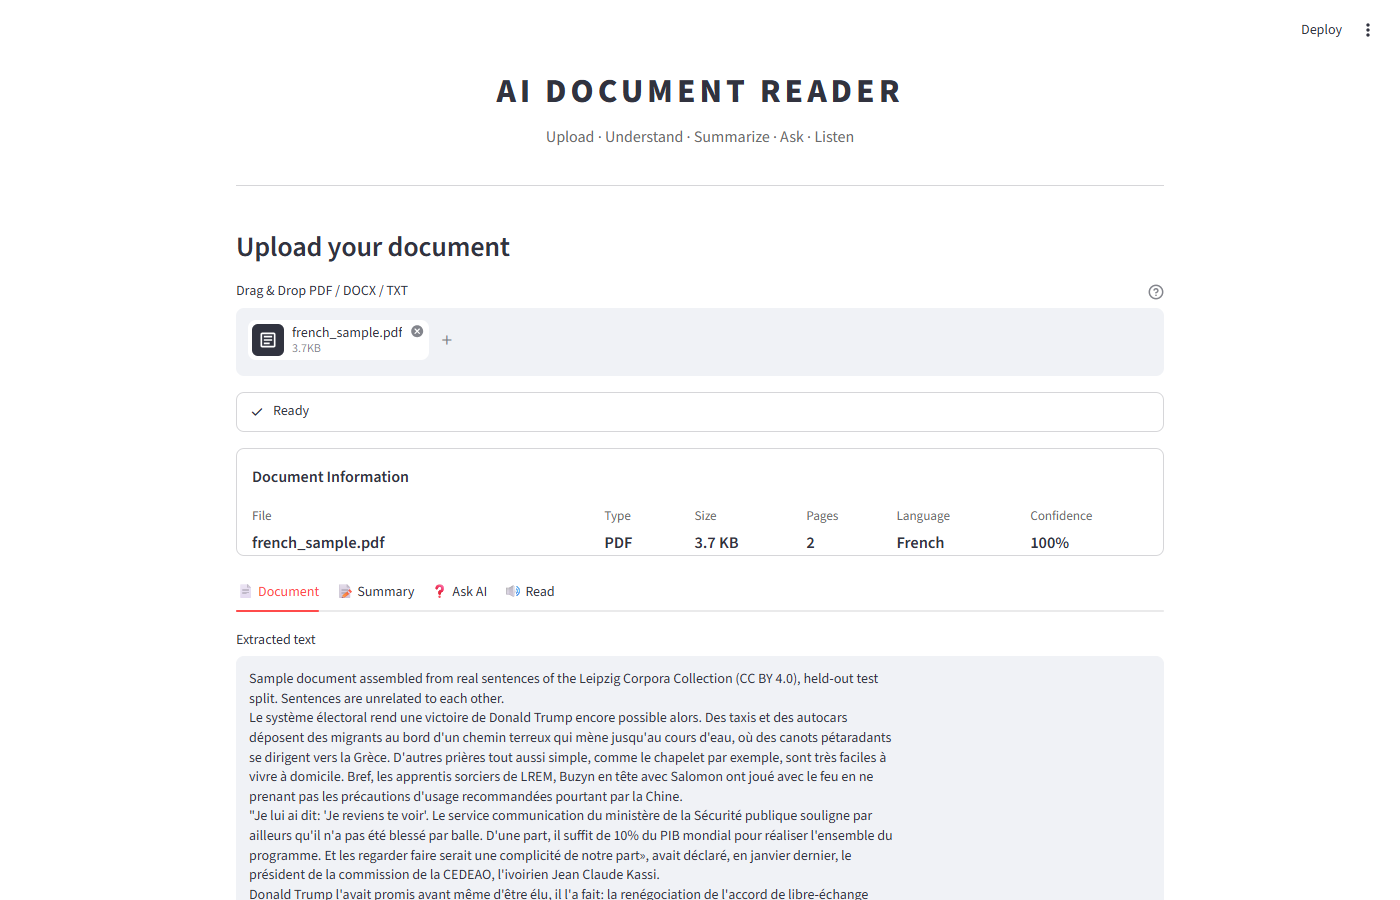
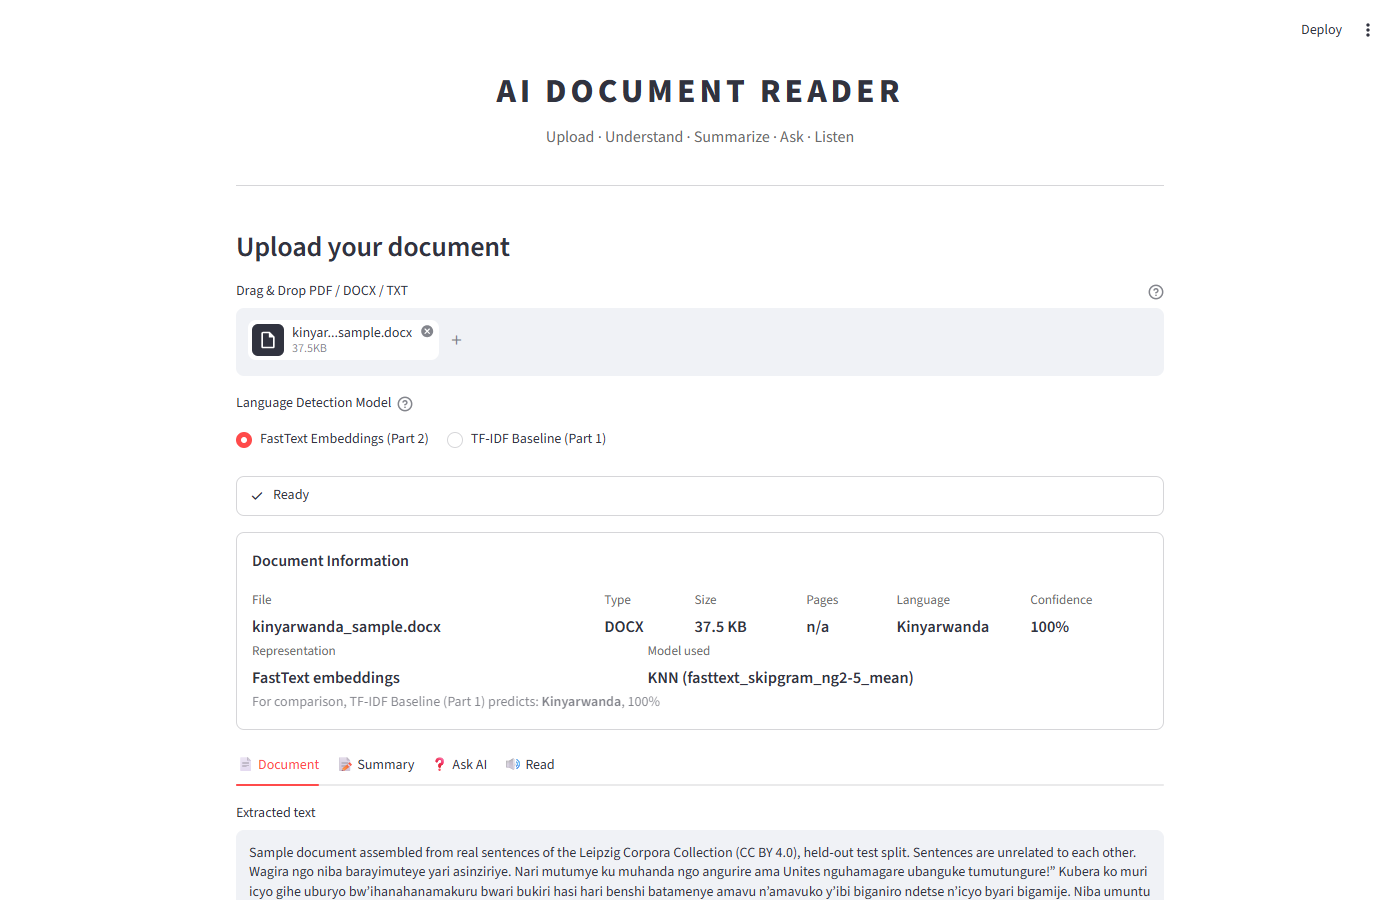
Update Streamlit model selection
Language Detection Model selector (FastText Embeddings - Part 2 / TF-IDF
Baseline - Part 1). The Document Information card shows the representation,
the model used and the other model's prediction for the same document.

diff --git a/ai-document-reader/app.py b/ai-document-reader/app.py
@@ -1,7 +1,10 @@
-"""AI Document Reader - Part 1 (TF-IDF baseline). Run: python -m streamlit run app.py
+"""AI Document Reader. Run: python -m streamlit run app.py
 
-Model evaluation is done in code (training/train_language_detection_tfidf.py -> results/),
-not in this interface.
+Language detection can use either model:
+  * Part 1 - TF-IDF baseline        (models/language_detection/tfidf/)
+  * Part 2 - FastText embeddings    (models/language_detection/fasttext/)
+
+Model evaluation is done in code (training/*.py -> results/), not in this interface.
 """
 
 from __future__ import annotations
@@ -10,6 +13,7 @@ import html
 
 import streamlit as st
 
+from src.config import FASTTEXT_MODEL_DIR, TFIDF_MODEL_DIR
 from src.extraction import SUPPORTED_TYPES, UnsupportedFileTypeError, extract_text
 from src.language_detection import LanguageDetector, ModelNotTrainedError
 from src.preprocessing import preprocess
@@ -23,6 +27,12 @@ st.set_page_config(page_title="AI Document Reader", page_icon="📄", layout="ce
 
 LANGUAGES = ["english", "french", "kinyarwanda"]
 SPEEDS = {"0.75x": 0.75, "1x": 1.0, "1.25x": 1.25, "1.5x": 1.5}
+DETECTION_MODELS = {
+    "FastText Embeddings (Part 2)": ("FastText embeddings", FASTTEXT_MODEL_DIR,
+                                     "python training/train_language_detection_embeddings.py"),
+    "TF-IDF Baseline (Part 1)": ("TF-IDF", TFIDF_MODEL_DIR,
+                                 "python training/train_language_detection_tfidf.py"),
+}
 READ_EXCERPT_CHARS = 3000
 
 st.markdown(
@@ -42,9 +52,16 @@ st.markdown(
 
 
 # ------------------------------------------------------------- cached ----
-@st.cache_resource
-def load_detector() -> LanguageDetector:
-    return LanguageDetector.load()
+@st.cache_resource(show_spinner="Loading language detection model...")
+def load_detector(model_dir: str) -> LanguageDetector:
+    return LanguageDetector.load(model_dir)
+
+
+def try_load_detector(choice: str) -> LanguageDetector | None:
+    try:
+        return load_detector(str(DETECTION_MODELS[choice][1]))
+    except ModelNotTrainedError:
+        return None
 
 
 @st.cache_data(show_spinner=False)
@@ -85,13 +102,16 @@ uploaded = st.file_uploader(
     help="PDF is read with PyMuPDF, DOCX with python-docx, TXT as UTF-8 text.",
 )
 
-try:
-    detector = load_detector()
-except ModelNotTrainedError as exc:
-    st.error(f"**Language detection model not found.**\n\n```\n{exc}\n```")
-    st.info("Build the dataset and train the model first:\n\n"
-            "```bash\npython training/prepare_dataset.py\npython training/train_language_detection_tfidf.py\n```")
+model_choice = st.radio("Language Detection Model", list(DETECTION_MODELS), horizontal=True,
+                        help="Part 1 uses a sparse TF-IDF representation; Part 2 uses dense FastText "
+                             "word embeddings. Both use the same data, preprocessing and evaluation.")
+representation_name, _, train_command = DETECTION_MODELS[model_choice]
+detector = try_load_detector(model_choice)
+if detector is None:
+    st.error(f"**The {model_choice} model has not been trained yet.**")
+    st.info(f"Train it first:\n\n```bash\npython training/prepare_dataset.py\n{train_command}\n```")
     st.stop()
+other_choice = next(c for c in DETECTION_MODELS if c != model_choice)
 
 if uploaded is None:
     st.stop()
@@ -142,6 +162,15 @@ with st.container(border=True):
     info_cell(cols[4], "Language", language.capitalize())
     info_cell(cols[5], "Confidence",
               f"{prediction.confidence:.0%}" if prediction.confidence is not None else "n/a")
+    row = st.columns([3.2, 4.2])
+    info_cell(row[0], "Representation", representation_name)
+    info_cell(row[1], "Model used", f"{prediction.model_name} ({detector.metadata['feature_config']})")
+    other = try_load_detector(other_choice)
+    if other is not None:
+        other_pred = other.predict(doc.text)
+        conf = f", {other_pred.confidence:.0%}" if other_pred.confidence is not None else ""
+        st.caption(f"For comparison, {other_choice} predicts: "
+                   f"**{other_pred.language.capitalize()}**{conf}")
 
 tab_doc, tab_sum, tab_qa, tab_read = st.tabs(["📄 Document", "📝 Summary", "❓ Ask AI", "🔊 Read"])
 
